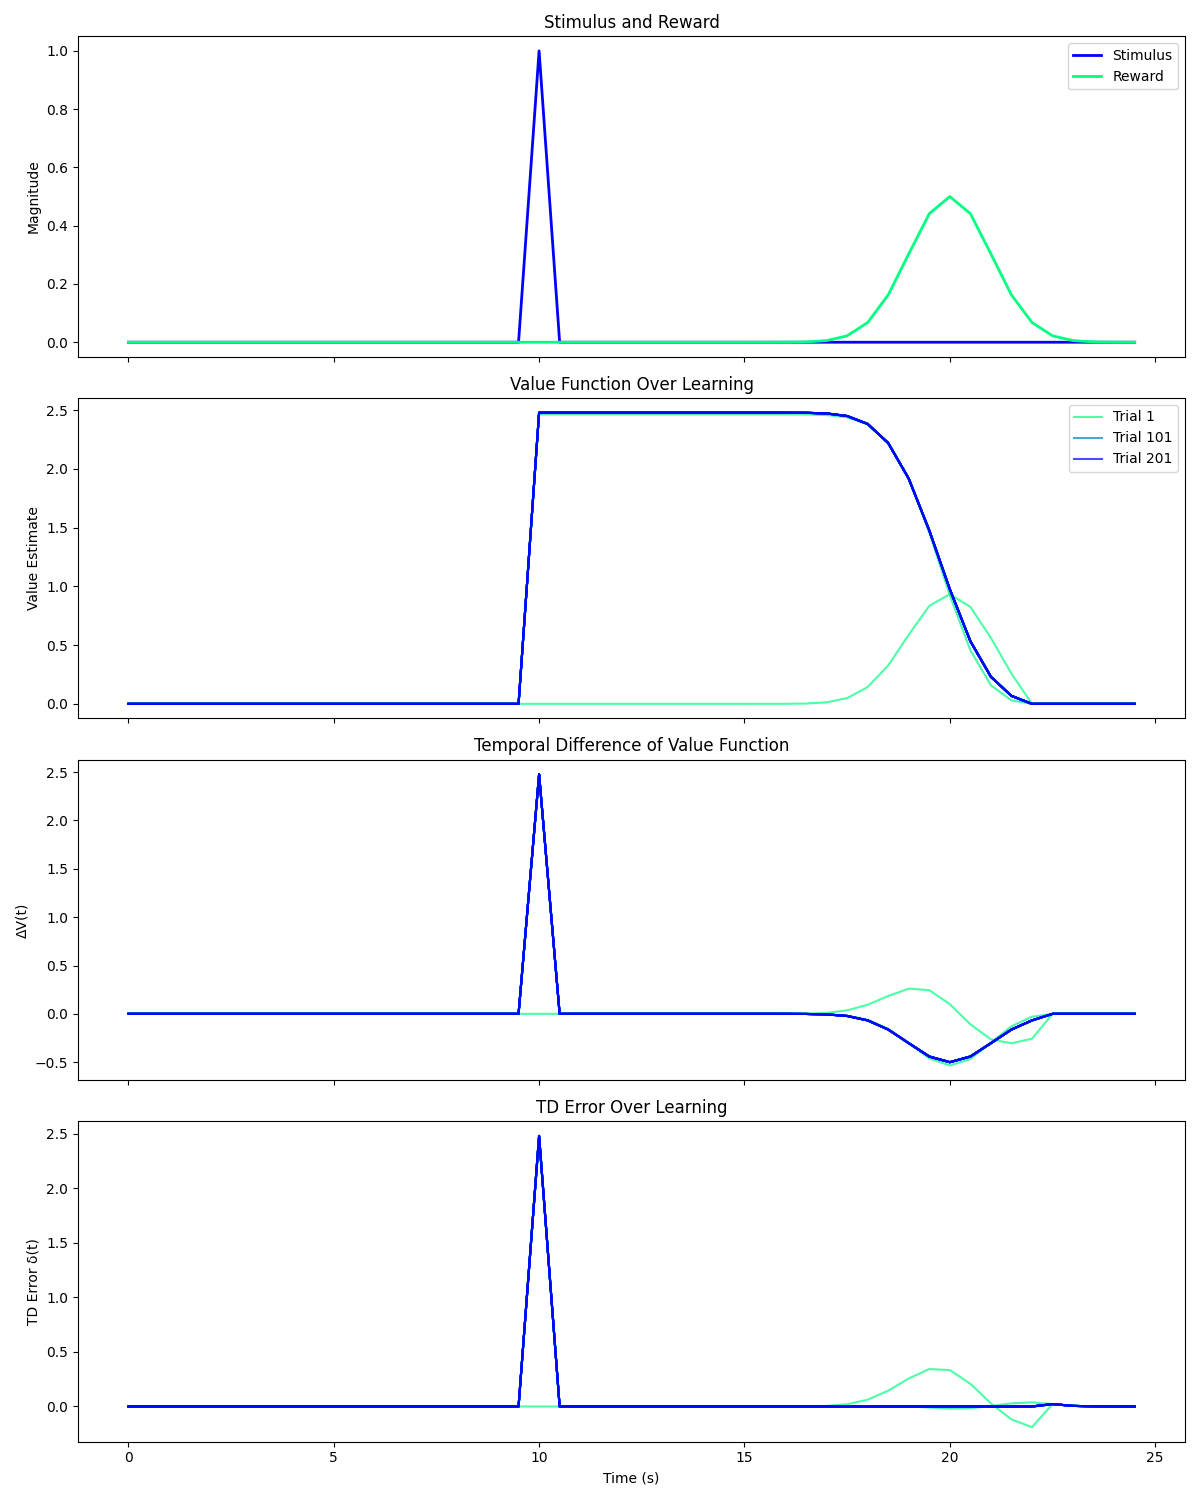
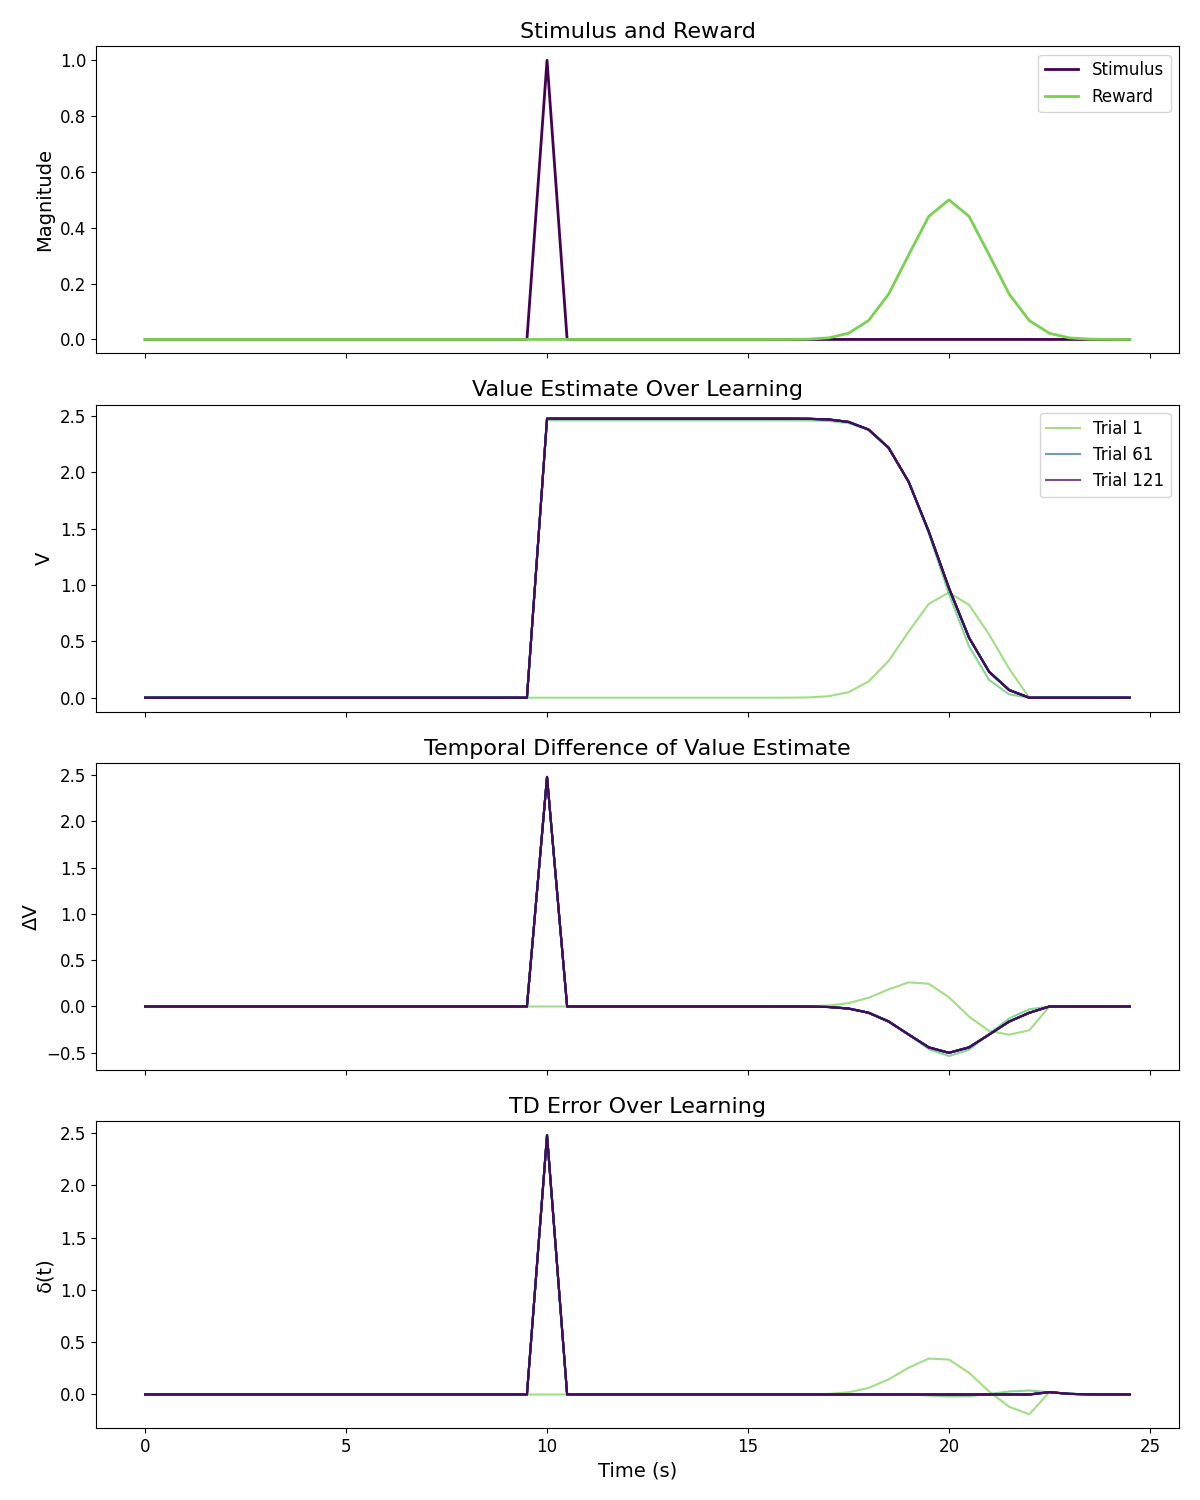
Archived old solutions

diff --git a/td_learning.py b/td_learning.py
@@ -121,7 +121,7 @@ def plot_tdl_vars(time_points, values_history, value_differences, td_errors_hist
     # Plot stimulus and reward
     axes[0].plot(time_points, [stimulus_function(t) for t in time_points], color=plt.cm.viridis(0.0), label='Stimulus', linewidth=2)
     axes[0].plot(time_points, [reward_function(t) for t in time_points], color=plt.cm.viridis(0.8), label='Reward', linewidth=2)
-    axes[0].set_ylabel('Magnitude')
+    axes[0].set_ylabel('')
     axes[0].set_title('Stimulus and Reward')
     axes[0].legend(loc='upper right')
     
@@ -291,7 +291,7 @@ def compute_mean_100trials(time_points, values_history, value_differences, td_er
         'dopamine': mean_dopamine_signal
     }
     
-def exercise_5():
+def exercise_5(): 
     print("\nRunning partial reinforcement simulation (p=0.5)...")
     time_points, values_history, value_differences, td_errors_history, reward_present = td_learning(p=0.5)
     mean_100trials = compute_mean_100trials(time_points, values_history, value_differences, td_errors_history, reward_present)
@@ -349,4 +349,4 @@ def exercise_6_7():
     plt.show()
 
 if __name__ == "__main__":
-    exercise_6_7()
+    exercise_4()
